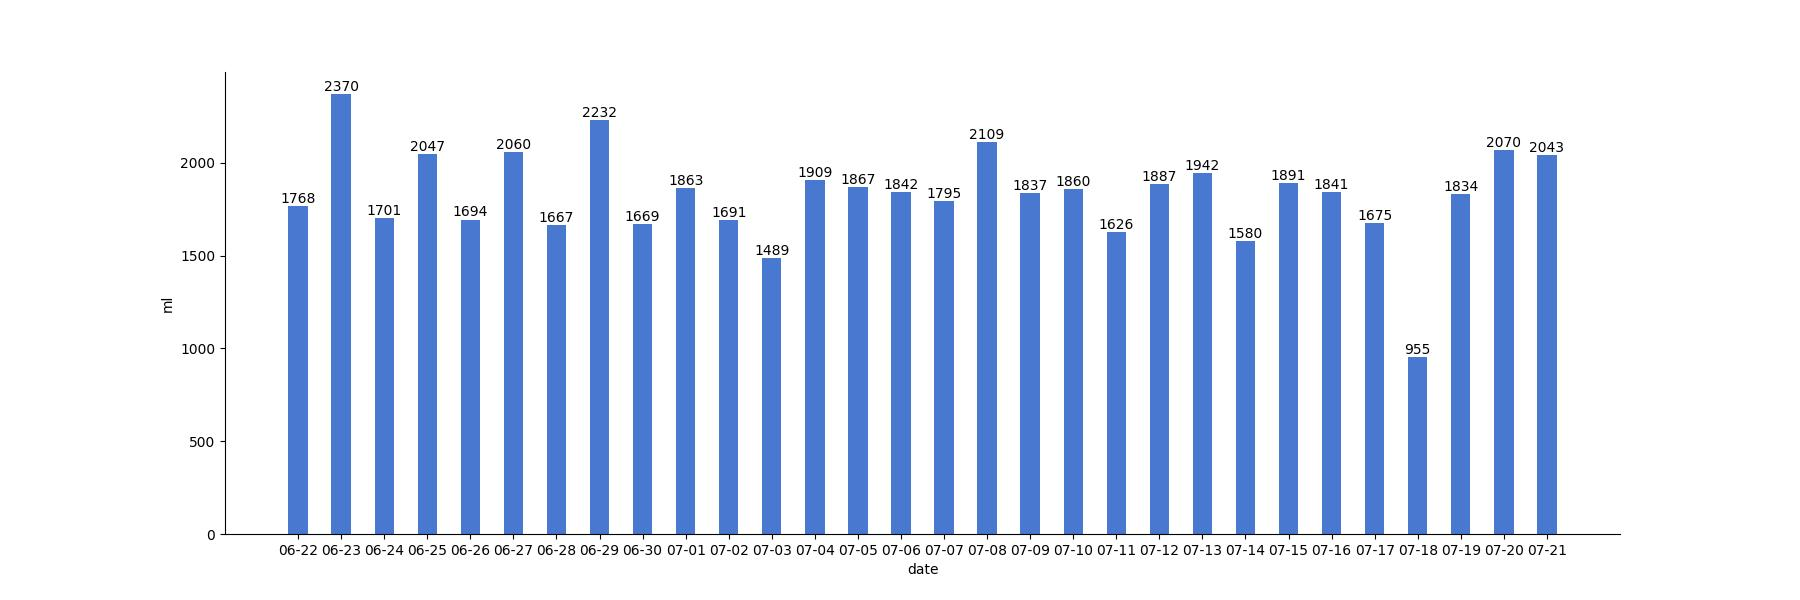
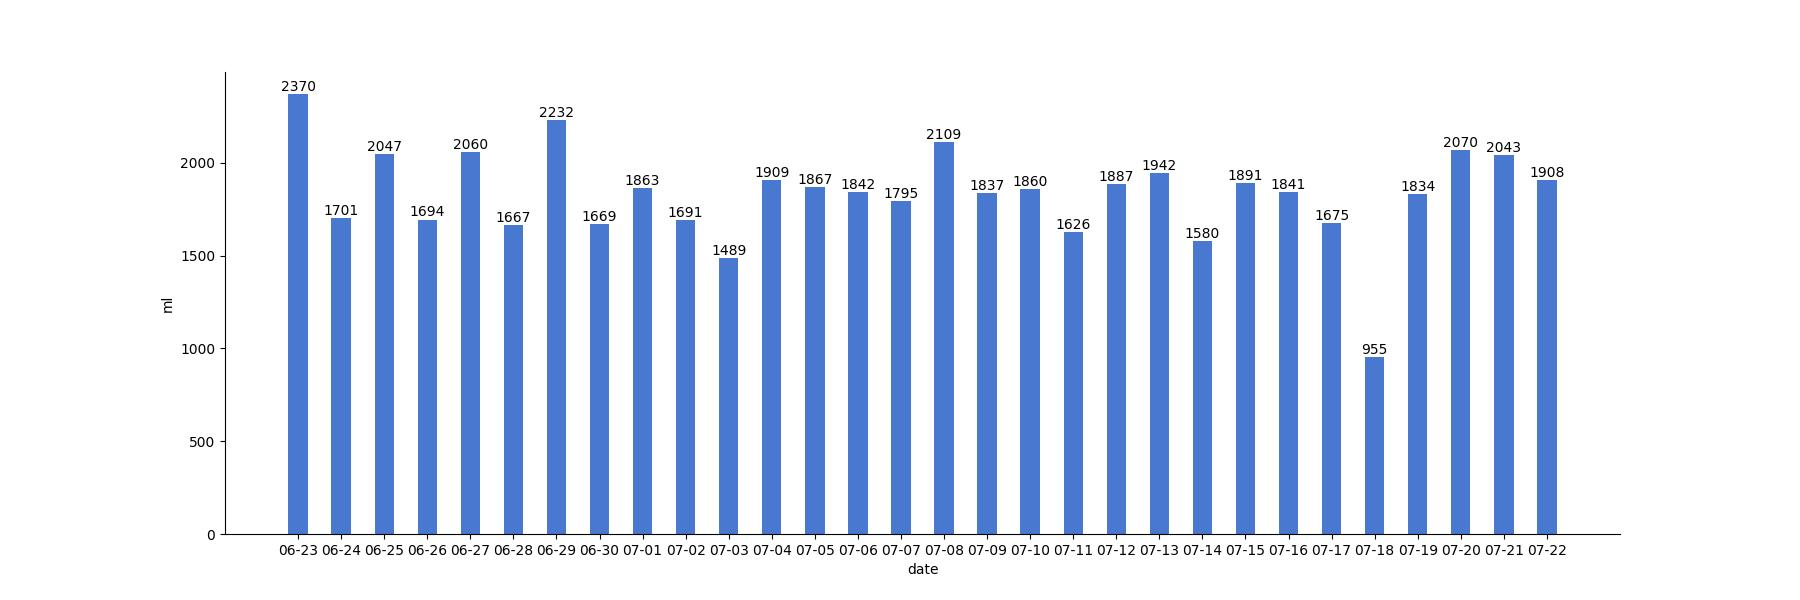
generated readme

diff --git a/README.md b/README.md
@@ -1,17 +1,3 @@
-# 今日饮水数据
-
-<div align=center>
-<img src="today.jpg" style="zoom: 100%;" />
-
-| 今日总饮水量 | 每小时平均饮水量 |
-| :----: | :----: |
-| 1908 | 146 |
-</div>
-
-| 日期 | 00:11:50 | 00:44:28 | 01:16:46 | 01:42:49 | 02:17:21 | 02:41:25 | 03:02:38 | 03:37:17 | 04:07:39 | 06:02:10 | 06:57:53 | 07:39:00 | 08:13:16 | 17:03:48 | 17:35:14 | 18:23:33 | 20:03:24 | 20:32:21 | 21:35:54 | 22:47:49 |
-| :----: | :----: | :----: | :----: | :----: | :----: | :----: | :----: | :----: | :----: | :----: | :----: | :----: | :----: | :----: | :----: | :----: | :----: | :----: | :----: | :----: |
-| 2022-07-22 | 85 | 200 | 60 | 65 | 80 | 31 | 90 | 83 | 70 | 79 | 79 | 96 | 27 | 82 | 92 | 106 | 400 | 76 | 59 | 48 |
-
 # 近30日饮水数据
 
 <div align=center>
@@ -19,8 +5,12 @@
 
 | 总饮水量 | 日均饮水量 |
 | :----: | :----: |
-| 54814 | 1827 |
+| 54954 | 1831 |
 </div>
+
+| 日期 | all | 00:11:50 | 00:44:28 | 01:16:46 | 01:42:49 | 02:17:21 | 02:41:25 | 03:02:38 | 03:37:17 | 04:07:39 | 06:02:10 | 06:57:53 | 07:39:00 | 08:13:16 | 17:03:48 | 17:35:14 | 18:23:33 | 20:03:24 | 20:32:21 | 21:35:54 | 22:47:49 |
+| :----: | :----: | :----: | :----: | :----: | :----: | :----: | :----: | :----: | :----: | :----: | :----: | :----: | :----: | :----: | :----: | :----: | :----: | :----: | :----: | :----: | :----: |
+| 2022-07-22 | 1908 | 85 | 200 | 60 | 65 | 80 | 31 | 90 | 83 | 70 | 79 | 79 | 96 | 27 | 82 | 92 | 106 | 400 | 76 | 59 | 48 |
 
 | 日期 | all | 00:45:37 | 01:19:00 | 01:44:34 | 02:04:30 | 02:34:24 | 03:18:24 | 04:07:03 | 05:00:48 | 06:07:47 | 06:41:43 | 07:30:00 | 08:09:06 | 08:23:28 | 13:34:05 | 16:16:12 | 17:28:55 | 18:15:31 | 18:46:26 | 19:50:34 | 21:21:57 | 22:13:04 | 23:14:12 | 23:39:42 |
 | :----: | :----: | :----: | :----: | :----: | :----: | :----: | :----: | :----: | :----: | :----: | :----: | :----: | :----: | :----: | :----: | :----: | :----: | :----: | :----: | :----: | :----: | :----: | :----: | :----: |
@@ -141,8 +131,4 @@
 | 日期 | all | 00:33:57 | 01:07:48 | 07:55:23 | 08:01:25 | 08:34:49 | 09:10:30 | 10:12:40 | 11:25:35 | 12:19:39 | 12:44:43 | 12:44:52 | 12:51:01 | 13:29:40 | 13:39:02 | 13:59:45 | 14:52:46 | 15:25:50 | 15:49:21 | 16:34:53 | 17:14:19 | 17:59:12 | 19:12:26 | 20:25:11 | 20:59:29 | 21:30:35 | 21:50:22 | 22:20:28 | 22:59:27 |
 | :----: | :----: | :----: | :----: | :----: | :----: | :----: | :----: | :----: | :----: | :----: | :----: | :----: | :----: | :----: | :----: | :----: | :----: | :----: | :----: | :----: | :----: | :----: | :----: | :----: | :----: | :----: | :----: | :----: | :----: |
 | 2022-06-22 | 1768 | 64 | 43 | 55 | 27 | 159 | 57 | 72 | 78 | 200 | 30 | 60 | 30 | 62 | 47 | 72 | 66 | 47 | 60 | 15 | 200 | 22 | 48 | 35 | 23 | 22 | 23 | 89 | 62 |
-
-| 日期 | all | 00:20:27 | 00:40:07 | 01:09:59 | 01:26:19 | 01:30:24 | 07:56:22 | 08:00:48 | 08:42:46 | 09:31:44 | 10:15:55 | 11:02:21 | 13:04:40 | 13:52:20 | 14:24:23 | 15:00:54 | 15:18:39 | 16:14:24 | 17:35:49 | 18:00:34 | 18:32:45 | 20:12:30 | 20:42:59 | 21:44:41 | 22:10:44 | 22:28:41 | 22:58:40 | 23:42:38 |
-| :----: | :----: | :----: | :----: | :----: | :----: | :----: | :----: | :----: | :----: | :----: | :----: | :----: | :----: | :----: | :----: | :----: | :----: | :----: | :----: | :----: | :----: | :----: | :----: | :----: | :----: | :----: | :----: | :----: |
-| 2022-06-21 | 2107 | 400 | 20 | 60 | 30 | 24 | 83 | 55 | 52 | 34 | 53 | 114 | 22 | 67 | 163 | 87 | 84 | 101 | 45 | 15 | 62 | 69 | 82 | 24 | 200 | 15 | 83 | 63 |
 
